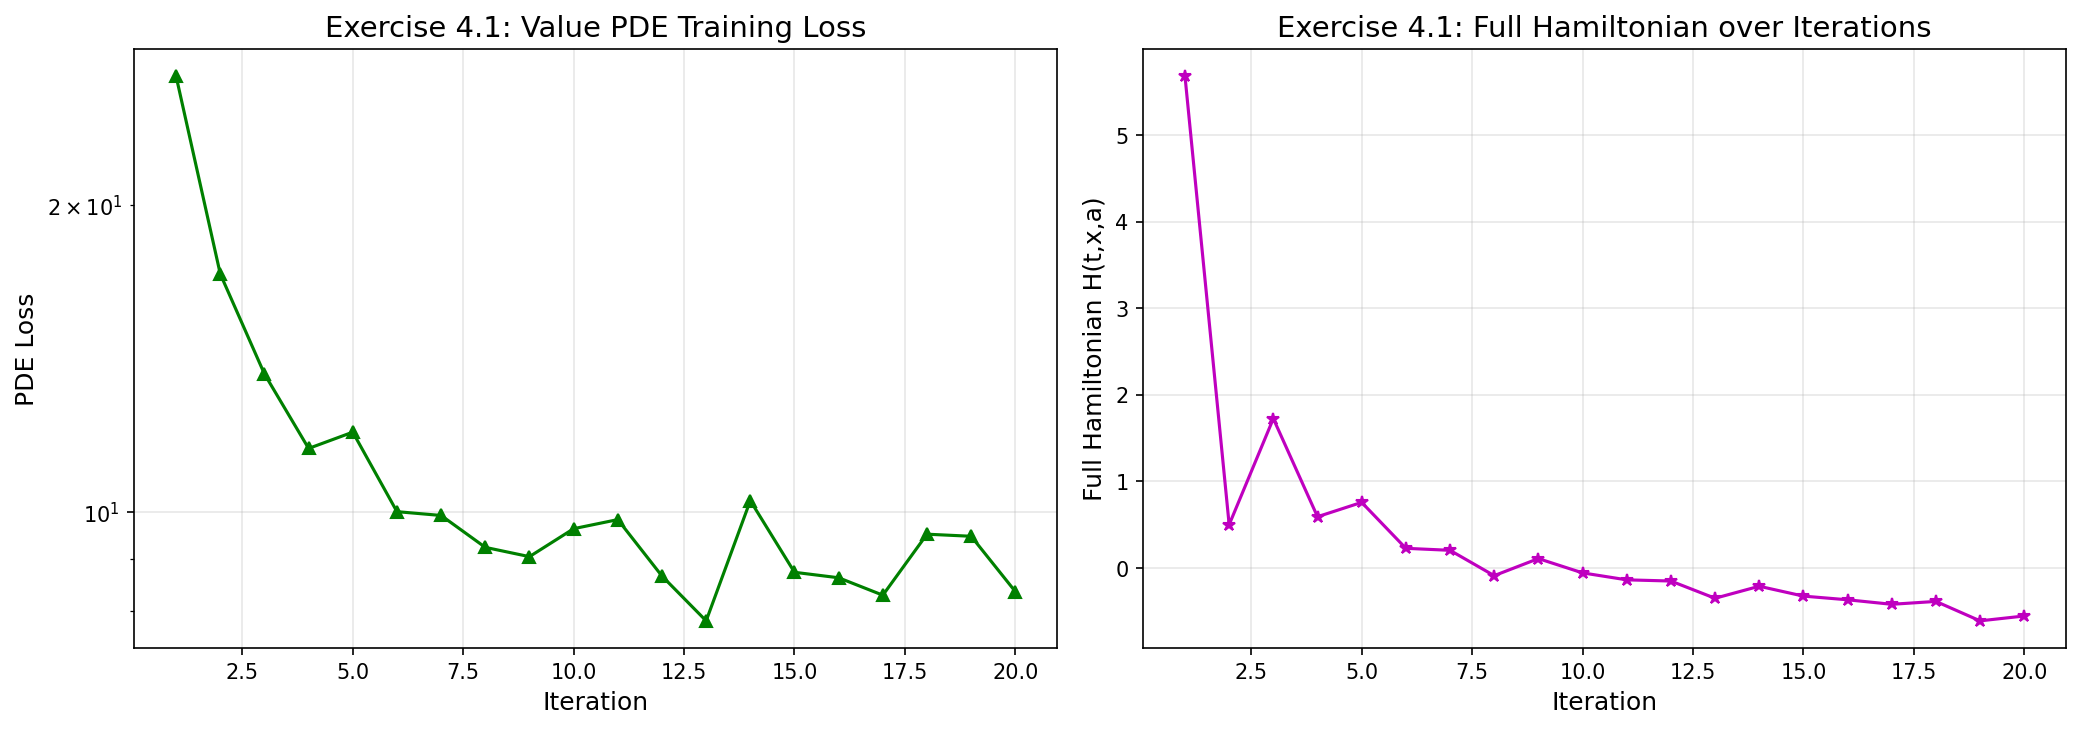
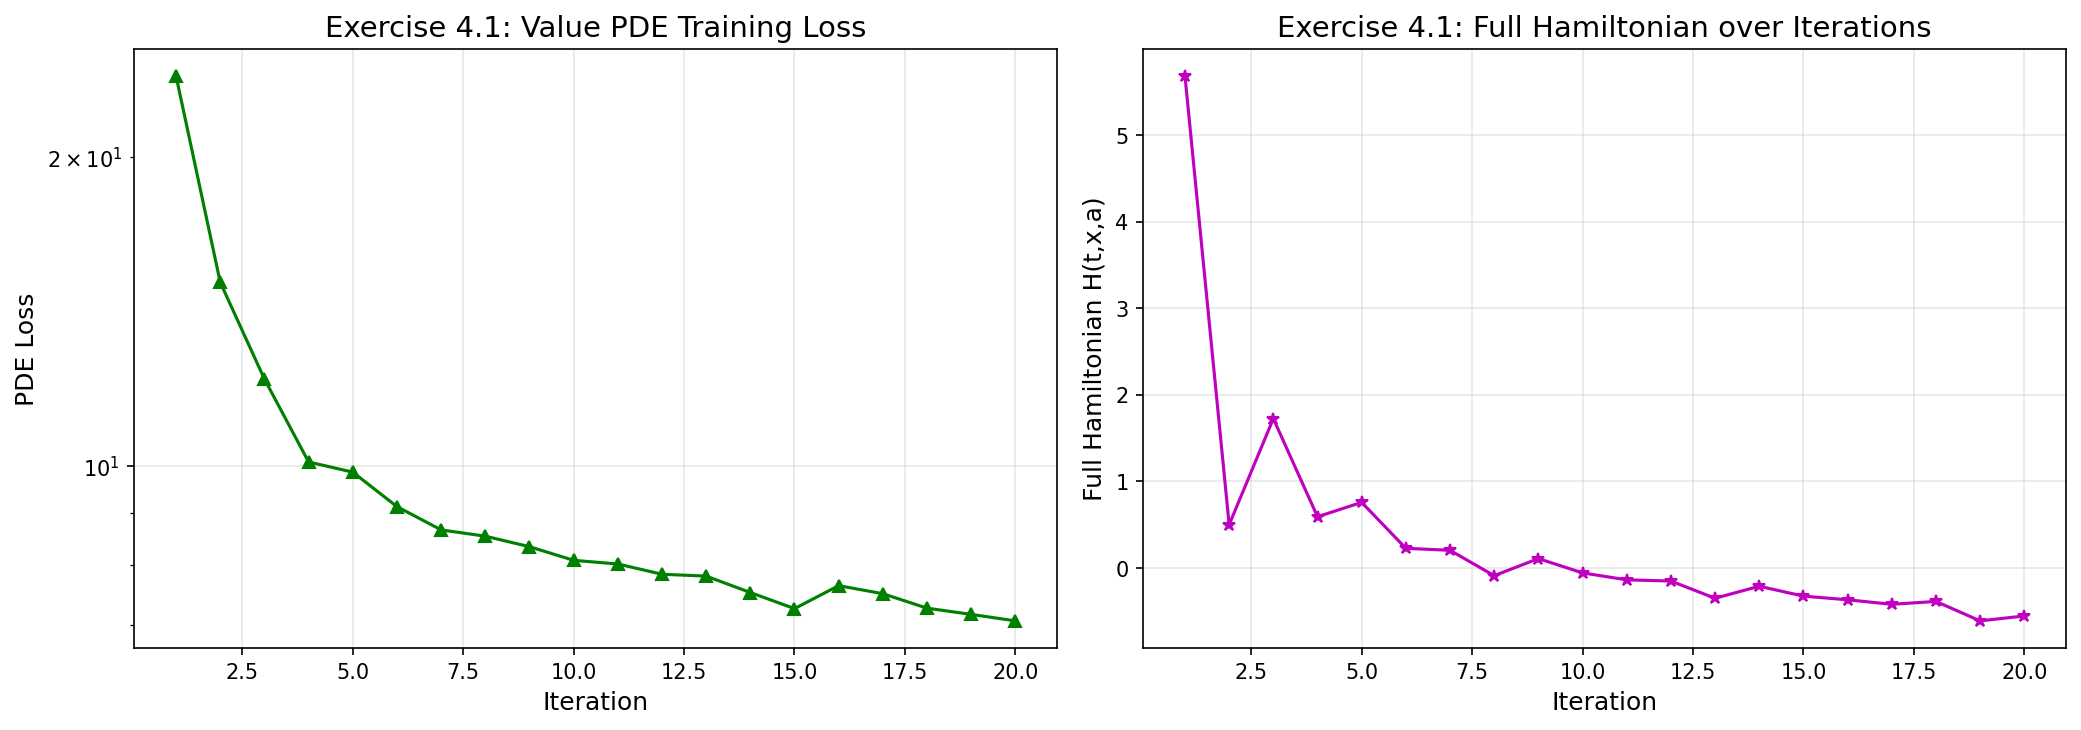
updates for pia plots

diff --git a/dgm_lqr.py b/dgm_lqr.py
@@ -523,7 +523,7 @@ class PDE_DGM_LQR(nn.Module):
                     break
 
             self.pia_history["v_loss_curve"].append(v_loss_this_iter)
-            self.pia_history["v_loss_final"].append(v_loss_this_iter[-1])
+            self.pia_history["v_loss_final"].append(min(v_loss_this_iter))
             print(f"  PDE final loss: {v_loss_this_iter[-1]:.4e}")
 
             # ── Step ii: minimise Hamiltonian ──────────────────────────────
